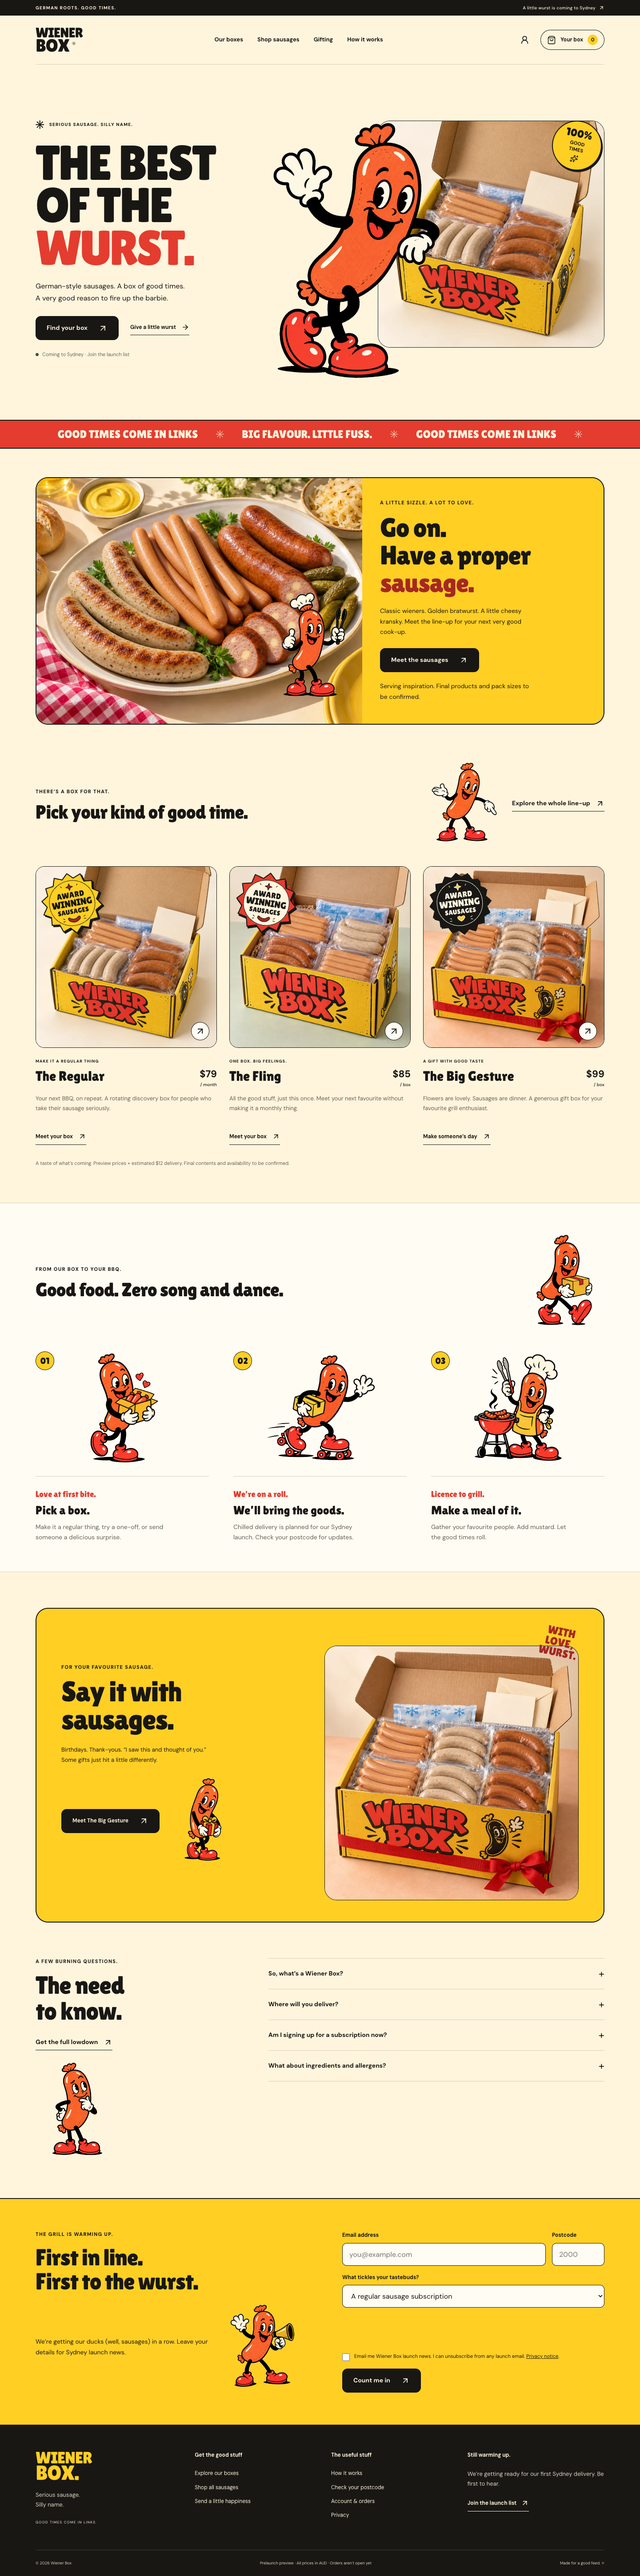
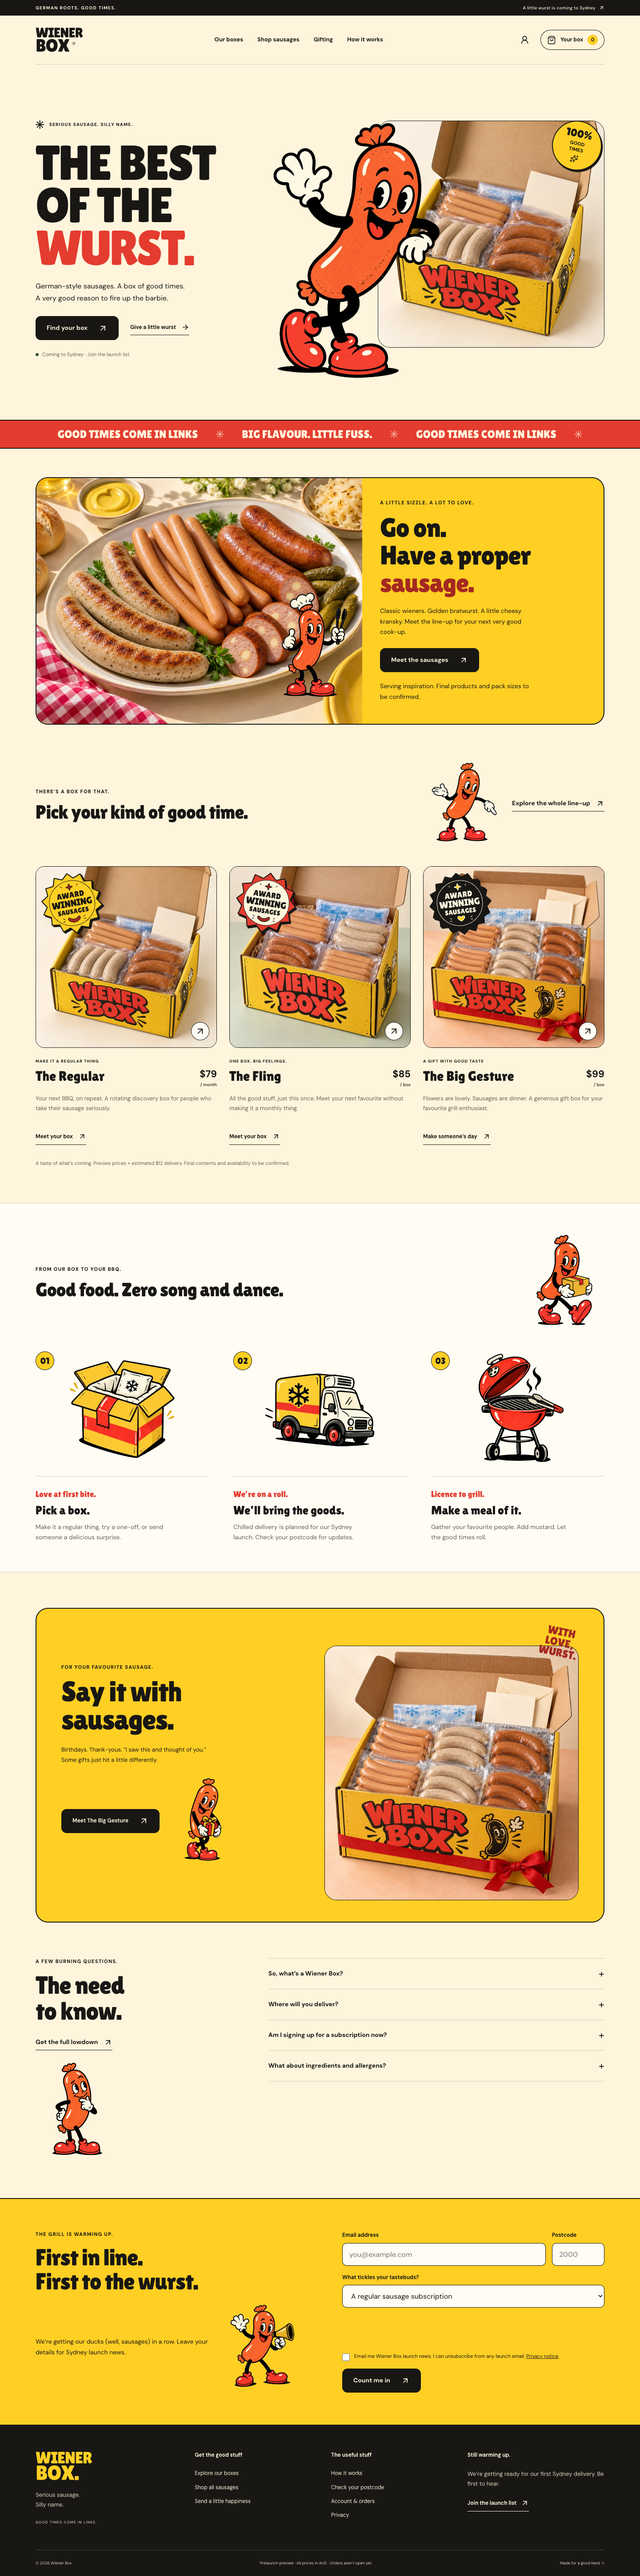
sausage

Changed region(s): [[0.4062, 0.5288, 0.5938, 0.591], [0.75, 0.5288, 0.875, 0.591], [0.125, 0.5288, 0.2812, 0.591]]

diff --git a/brand/image-prompts.md b/brand/image-prompts.md
@@ -374,3 +374,65 @@ Background: perfectly flat solid warm cream #FFF5DD, no gradient, paper texture,
 No letters, words, numerals, labels, logos or watermarks anywhere. Website captions will be added separately. Keep props simple and readable at 230px wide. No additional characters.
 Scene: The sausage mascot is a proudly overqualified backyard barbecue chef. It stands next to a small waist-high bright red round kettle barbecue on simple black legs, holding oversized barbecue tongs in one cream glove like a jaunty spy gadget pointed safely upwards, and resting its other gloved hand on its hip. Wear a puffy cream chef hat and a little mustard-yellow apron. Give it the recognizable delighted mischievous grin and original expressive eyes, no sunglasses. Two little sausage links and one simple curling black smoke line over the grill. A playful LICENCE TO GRILL scene. Keep the chef and red barbecue touching/overlapping slightly as a compact vignette.
 ```
+
+## Box-to-BBQ object illustrations — 15 September 2026
+
+Mode: built-in `image_gen`, one generation per object. Style reference: `brand/mascots/step-grill.png`, used only for its drawing treatment. These three object-only images replace the earlier column mascots. The delivery mascot beside the heading stays in place. No characters, faces or visible sausages appear in these columns.
+
+Design research: [CHILL transport information](https://faq.chill.com.au/en/knowledge/transport-faqs-1) lists vans and trucks for deliveries; its [temperature-controlled transport overview](https://chill.com.au/wp-content/uploads/2021/09/How-can-we-help-you-rev-3.pdf) identifies refrigerated van/truck services. A compact refrigerated vehicle is our design choice for the planned local chilled-delivery step, not a claim about a contracted courier or vehicle. [Weber's Compact Kettle range](https://anz.weber.com/en-au/collections/compact-kettle) informed the recognisable round bowl, domed lid and wheeled stand for the barbecue illustration. The open insulated carton follows the existing box-and-chilled-delivery concept. No third-party logos or product branding were reproduced.
+
+Original PNGs are 1254 × 1254. Website derivatives are 360 and 720 px WebP, quality 90. Original raster files are preserved; native SVG display masks remove the cream backdrop and preserve negative spaces. Assets reuse `MascotArtwork.vue` and `mascotArtwork.ts` as the shared illustration renderer. Earlier character scenes remain archived on disk.
+
+### Pick a box: step-box
+
+Original: `brand/mascots/step-box.png`. Web: `public/images/mascots/step-box-360.webp`, `public/images/mascots/step-box-720.webp`. Mask: `public/images/mascots/step-box-outline.svg`.
+
+Built-in source: `/Users/stompy/.codex/generated_images/01a0a405-33ed-71a3-960f-eb2056dc353a/exec-06988403-7322-4fa6-94df-e96a55e3a82e.png`.
+
+Final prompt:
+
+```text
+Use case: illustration-story.
+Asset type: an original isolated object illustration for a Wiener Box website how-it-works column.
+Input image 1 is a drawing STYLE reference only: match its thick slightly irregular black ink contours, playful rounded vintage cartoon forms, flat mustard yellow, vivid red, warm cream and near-black palette, restrained worn screen-print texture, bold simple highlights. Do NOT draw the sausage mascot or any character from the reference.
+Make a single attractive OBJECT, not a character: absolutely no eyes, face, mouth, arms, gloves, human legs, shoes, people, animals, sausage characters or anthropomorphism. No visible sausages. No letters, logos, numbers, captions or watermark. Avoid realistic rendering, 3D or generic thin-line vector icon styling.
+Square 1024x1024 canvas. Center the complete object with a generous approximately 10% empty margin around it. Full object entirely inside the canvas, recognizable at 240px wide. A small black ground shadow and a couple of simple black accent strokes are fine.
+Background: perfectly flat uniform cream #FFF5DD, no gradient, no scene, no texture outside the object, no checkerboard or white border. Every object part has a solid closed black outer contour.
+Subject: A cheerful chunky mustard-yellow insulated cardboard delivery carton in three-quarter view, with its top open and four folded flaps. Broad red packing-tape stripe across the front and side panels, cream protective liner visible inside. One plain cream rectangular gel ice pack peeks out of the liner, with a small simple black six-armed snowflake printed on it; no text. Otherwise minimal contents, no food visible. Slightly squashy hand-drawn proportions and bold black fold lines make this feel like a prop from a vintage cartoon. Two tiny mustard sparkle accents beside the carton. The carton is the star, filling about 75% of the canvas width and 75% height.
+```
+
+### Chilled delivery: step-truck
+
+Original: `brand/mascots/step-truck.png`. Web: `public/images/mascots/step-truck-360.webp`, `public/images/mascots/step-truck-720.webp`. Mask: `public/images/mascots/step-truck-outline.svg`.
+
+Built-in source: `/Users/stompy/.codex/generated_images/01a0a405-33ed-71a3-960f-eb2056dc353a/exec-521c57c9-8427-4d4e-b911-ef9892dc8d8f.png`.
+
+Final prompt:
+
+```text
+Use case: illustration-story.
+Asset type: an original isolated object illustration for a Wiener Box website how-it-works column.
+Input image 1 is a drawing STYLE reference only: match its thick slightly irregular black ink contours, playful rounded vintage cartoon forms, flat mustard yellow, vivid red, warm cream and near-black palette, restrained worn screen-print texture, bold simple highlights. Do NOT draw the sausage mascot or any character from the reference.
+Make a single attractive OBJECT, not a character: absolutely no eyes, face, mouth, arms, gloves, human legs, shoes, people, animals, sausage characters or anthropomorphism. No visible sausages. No letters, logos, numbers, captions or watermark. Avoid realistic rendering, 3D or generic thin-line vector icon styling.
+Square 1024x1024 canvas. Center the complete object with a generous approximately 10% empty margin around it. Full object entirely inside the canvas, recognizable at 240px wide. A small black ground shadow and a couple of simple black accent strokes are fine.
+Background: perfectly flat uniform cream #FFF5DD, no gradient, no scene, no texture outside the object, no checkerboard or white border. Every object part has a solid closed black outer contour.
+Subject: A small friendly-looking but NON-anthropomorphic refrigerated local delivery van / compact box truck in three-quarter view, facing right. Mustard-yellow square insulated cargo body with rounded corners, a broad red horizontal stripe, a simple black six-armed snowflake symbol on the side, cream front cab, red wheel hubs, chunky black tyres, cream windows. A small cream refrigeration unit sits above the cab. No driver or passengers, no face-like grille or eyes. Exaggerated curved fenders and a slightly jaunty forward stance, two short black motion streaks behind it. Entire vehicle including both visible wheels fits the canvas, at about 85% width and 65% height. This is an original generic cartoon delivery vehicle, not any real vehicle or courier brand.
+```
+
+### Make a meal of it: step-bbq
+
+Original: `brand/mascots/step-bbq.png`. Web: `public/images/mascots/step-bbq-360.webp`, `public/images/mascots/step-bbq-720.webp`. Mask: `public/images/mascots/step-bbq-outline.svg`.
+
+Built-in source: `/Users/stompy/.codex/generated_images/01a0a405-33ed-71a3-960f-eb2056dc353a/exec-03331eb4-44fd-463e-8d62-c72f19486857.png`.
+
+Final prompt:
+
+```text
+Use case: illustration-story.
+Asset type: an original isolated object illustration for a Wiener Box website how-it-works column.
+Input image 1 is a drawing STYLE reference only: match its thick slightly irregular black ink contours, playful rounded vintage cartoon forms, flat mustard yellow, vivid red, warm cream and near-black palette, restrained worn screen-print texture, bold simple highlights. Do NOT draw the sausage mascot or any character from the reference.
+Make a single attractive OBJECT, not a character: absolutely no eyes, face, mouth, arms, gloves, human legs, shoes, people, animals, sausage characters or anthropomorphism. No visible sausages. No letters, logos, numbers, captions or watermark. Avoid realistic rendering, 3D or generic thin-line vector icon styling.
+Square 1024x1024 canvas. Center the complete object with a generous approximately 10% empty margin around it. Full object entirely inside the canvas, recognizable at 240px wide. A small black ground shadow and a couple of simple black accent strokes are fine.
+Background: perfectly flat uniform cream #FFF5DD, no gradient, no scene, no texture outside the object, no checkerboard or white border. Every object part has a solid closed black outer contour.
+Subject: A bold bright-red round kettle charcoal barbecue in three-quarter view, on a sturdy black tripod stand with two small chunky wheels. Its domed red lid is hinged open at the back, showing an empty black-and-cream cooking grate. A pair of simple cream-and-black metal barbecue tongs rests diagonally on the rim. Cream lid handle and small black vent holes, two elegant curling black heat lines above the grill. No food or sausages anywhere. Match the red kettle prop in the reference's drawing style, but make the barbecue the sole subject and redraw it larger with a clearly open lid. Entire barbecue including lid, stand and wheels inside the canvas at about 75% width and 85% height.
+```
